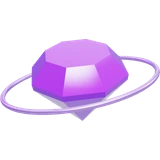
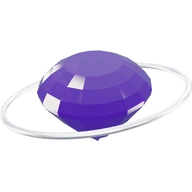
render photoreal crystal rarity gems and keep a fixed gap below each card

Changed region(s): [[0.0, 0.2188, 1.0, 0.75]]

diff --git a/scripts/rarity-gems/gems.html b/scripts/rarity-gems/gems.html
@@ -1,115 +1,149 @@
 <!doctype html>
 <meta charset="utf-8">
-<script type="importmap">{"imports":{"three":"/node_modules/three/build/three.module.js","three/addons/":"/node_modules/three/examples/jsm/"}}</script>
-<body style="margin:0;background:transparent">
+<script type="importmap">{"imports":{"three":"/node_modules/three/build/three.module.js"}}</script>
+<body style="margin:0;background:#000">
 <script type="module">
 import * as THREE from "three";
-import { RoomEnvironment } from "three/addons/environments/RoomEnvironment.js";
 
-const SIZE = 384;
-const renderer = new THREE.WebGLRenderer({ antialias: true, alpha: true, preserveDrawingBuffer: true });
+const SIZE = 512;
+const renderer = new THREE.WebGLRenderer({ antialias: true, preserveDrawingBuffer: true });
 renderer.setSize(SIZE, SIZE);
 renderer.setPixelRatio(1);
 renderer.toneMapping = THREE.ACESFilmicToneMapping;
-renderer.toneMappingExposure = 1.15;
+renderer.outputColorSpace = THREE.SRGBColorSpace;
 document.body.appendChild(renderer.domElement);
 
+/** Estúdio de joalheria: caixas de luz brancas e faixas coloridas num fundo escuro, para reflexos nítidos nas facetas. */
+function studio() {
+  const scene = new THREE.Scene();
+  scene.background = new THREE.Color(0x05070a);
+  let seed = 7;
+  const rand = () => ((seed = (seed * 16807) % 2147483647) / 2147483647);
+  // Domo com degradê suave (para o corpo da pedra não ficar chapado) e dezenas de faixas de luz finas e fortes (os brilhos das facetas).
+  const dome = new THREE.Mesh(new THREE.SphereGeometry(30, 48, 32), new THREE.ShaderMaterial({
+    side: THREE.BackSide, toneMapped: false,
+    vertexShader: "varying vec3 p; void main(){ p = normalize(position); gl_Position = projectionMatrix*modelViewMatrix*vec4(position,1.0); }",
+    fragmentShader: "varying vec3 p; void main(){ float t = p.y*0.5+0.5; vec3 c = mix(vec3(0.02,0.03,0.04), vec3(0.55,0.6,0.7), pow(t,3.0)); gl_FragColor = vec4(c,1.0); }",
+  }));
+  scene.add(dome);
+  for (let i = 0; i < 46; i++) {
+    const theta = rand() * Math.PI * 2;
+    const phi = Math.acos(1 - rand() * 1.6);
+    const r = 22;
+    const pos = [r * Math.sin(phi) * Math.cos(theta), r * Math.cos(phi), r * Math.sin(phi) * Math.sin(theta)];
+    const w = 0.6 + rand() * 3.2;
+    const h = 2 + rand() * 9;
+    const warm = rand() > 0.55;
+    const k = 4 + rand() * 14;
+    const rgb = warm ? [k, k * 0.86, k * 0.62] : [k * 0.8, k * 0.92, k];
+    const mesh = new THREE.Mesh(new THREE.PlaneGeometry(w, h), new THREE.MeshBasicMaterial({ color: new THREE.Color(...rgb), side: THREE.DoubleSide, toneMapped: false }));
+    mesh.position.set(...pos);
+    mesh.lookAt(0, 0, 0);
+    mesh.rotateZ(rand() * Math.PI);
+    scene.add(mesh);
+  }
+  return scene;
+}
 const pmrem = new THREE.PMREMGenerator(renderer);
-const env = pmrem.fromScene(new RoomEnvironment(), 0.02).texture;
+const env = pmrem.fromScene(studio(), 0.01, 0.1, 100).texture;
 
-/** Lapidação brilhante: coroa com mesa, cintura fina e pavilhão, 8 facetas (LatheGeometry + flatShading). */
-function brilliantGeometry(segments = 8) {
+/** Lapidação brilhante: mesa, coroa em dois níveis, cintura fina e pavilhão em ponta. */
+function brilliantGeometry(segments) {
   const profile = [
     [0.0, -1.0],
-    [0.98, 0.1],
-    [1.0, 0.22],
-    [0.66, 0.62],
+    [0.34, -0.7],
+    [0.66, -0.34],
+    [0.98, 0.08],
+    [1.0, 0.18],
+    [0.9, 0.34],
+    [0.72, 0.5],
+    [0.5, 0.62],
     [0.0, 0.62],
   ].map(([x, y]) => new THREE.Vector2(x, y));
   return new THREE.LatheGeometry(profile, segments);
 }
 
+const goldMat = () => new THREE.MeshStandardMaterial({ color: 0xf3c969, metalness: 1, roughness: 0.18, envMap: env, envMapIntensity: 1.6 });
+
 const GEMS = {
-  // comum: pedra de aço lapidada, sem brilho exagerado
-  comum: { color: 0x5f7389, emissive: 0x0a1118, rough: 0.3, metal: 0.45, inner: false, ring: false, prongs: false, segments: 6, exposure: 0.85 },
-  // rara: safira azul com brilho próprio
-  rara: { color: 0x1458ff, emissive: 0x041a66, rough: 0.1, metal: 0.1, inner: true, ring: false, prongs: false, segments: 8, exposure: 0.85 },
-  // épica: ametista com anel orbital
-  epica: { color: 0x8a22ff, emissive: 0x2a0770, rough: 0.1, metal: 0.1, inner: true, ring: true, prongs: false, segments: 8, exposure: 0.85 },
-  // lendária: gema dourada engastada em garras, com anel e aura
-  lendaria: { color: 0xff9d00, emissive: 0x6a3000, rough: 0.1, metal: 0.2, inner: true, ring: true, prongs: true, segments: 8, exposure: 0.9 },
+  // comum: quartzo fumê, translúcido e sóbrio
+  comum: { tint: 0xe3d3bd, atten: 0xb89c7c, dist: 3.5, ior: 1.46, core: 0xa5886a, disp: 0.15, seg: 16, ring: null, prongs: false, exposure: 1.0 },
+  // rara: safira azul profunda
+  rara: { tint: 0x6f9bff, atten: 0x1f5bff, dist: 2.4, ior: 1.5, core: 0x1648d8, disp: 0.3, seg: 16, ring: null, prongs: false, exposure: 1.05 },
+  // épica: ametista com anel orbital de prata
+  epica: { tint: 0xd69bff, atten: 0xc030ff, dist: 2.6, ior: 1.5, core: 0xa52be0, disp: 0.35, seg: 16, ring: "silver", prongs: false, exposure: 1.1 },
+  // lendária: topázio imperial engastado em garras de ouro, com anel
+  lendaria: { tint: 0xffd86f, atten: 0xffb800, dist: 2.6, ior: 1.55, core: 0xe6a000, disp: 0.5, seg: 16, ring: "gold", prongs: true, exposure: 1.15 },
 };
 
-function build(kind) {
+function build(kind, mask) {
   const cfg = GEMS[kind];
   const scene = new THREE.Scene();
-  scene.environment = env;
+  scene.environment = mask ? null : env;
+  scene.background = mask ? new THREE.Color(0x000000) : new THREE.Color(0x8b9893);
   const group = new THREE.Group();
 
-  const outer = new THREE.Mesh(
-    brilliantGeometry(cfg.segments),
+  const gem = new THREE.Mesh(
+    brilliantGeometry(cfg.seg),
     new THREE.MeshPhysicalMaterial({
-      color: cfg.color, emissive: cfg.emissive, emissiveIntensity: 0.7, roughness: cfg.rough, metalness: cfg.metal,
-      clearcoat: 0.6, clearcoatRoughness: 0.08, envMapIntensity: 0.9, flatShading: true,
+      color: cfg.tint, metalness: 0, roughness: 0.02, transmission: 1, thickness: 1.4, ior: cfg.ior, dispersion: cfg.disp,
+      attenuationColor: new THREE.Color(cfg.atten), attenuationDistance: cfg.dist, specularIntensity: 1, envMap: env, envMapIntensity: 1.5,
+      clearcoat: 0.35, clearcoatRoughness: 0.02, flatShading: true, side: THREE.DoubleSide,
     }),
   );
-  group.add(outer);
+  group.add(gem);
 
-  if (cfg.inner) {
-    const core = new THREE.Mesh(
-      brilliantGeometry(cfg.segments),
-      new THREE.MeshStandardMaterial({ color: 0xffffff, emissive: cfg.color, emissiveIntensity: 1.1, roughness: 0.2, metalness: 0, flatShading: true, transparent: true, opacity: 0.28 }),
-    );
-    core.scale.set(0.58, 0.58, 0.58);
-    core.rotation.y = Math.PI / cfg.segments;
-    group.add(core);
-  }
+  // Corpo da cor da pedra: uma lapidação menor por dentro que acende as facetas (o que dá a profundidade de um cristal de verdade).
+  const core = new THREE.Mesh(
+    brilliantGeometry(cfg.seg),
+    new THREE.MeshStandardMaterial({ color: cfg.core, emissive: cfg.core, emissiveIntensity: 0.9, roughness: 0.3, flatShading: true, transparent: true, opacity: 0.55 }),
+  );
+  core.scale.set(0.62, 0.62, 0.62);
+  core.rotation.y = Math.PI / cfg.seg;
+  group.add(core);
 
-  const goldMat = new THREE.MeshStandardMaterial({ color: 0xe9c46a, metalness: 1, roughness: 0.22, envMapIntensity: 2.4 });
   if (cfg.ring) {
-    const ring = new THREE.Mesh(new THREE.TorusGeometry(1.55, 0.045, 12, 96), kind === "lendaria" ? goldMat : new THREE.MeshStandardMaterial({ color: 0xc9a8ff, metalness: 1, roughness: 0.25, envMapIntensity: 2.4 }));
-    ring.rotation.x = Math.PI / 2.35;
-    ring.rotation.z = 0.25;
+    const metal = cfg.ring === "gold" ? goldMat() : new THREE.MeshStandardMaterial({ color: 0xdfe3ee, metalness: 1, roughness: 0.16, envMap: env, envMapIntensity: 1.8 });
+    const ring = new THREE.Mesh(new THREE.TorusGeometry(1.62, 0.05, 16, 120), metal);
+    ring.rotation.x = Math.PI / 2.3;
+    ring.rotation.z = 0.28;
     group.add(ring);
   }
   if (cfg.prongs) {
+    const metal = goldMat();
     for (let i = 0; i < 4; i++) {
       const a = (i / 4) * Math.PI * 2 + Math.PI / 4;
-      const prong = new THREE.Mesh(new THREE.ConeGeometry(0.15, 0.7, 12), goldMat);
-      prong.position.set(Math.cos(a) * 1.0, 0.22, Math.sin(a) * 1.0);
-      prong.rotation.z = -Math.cos(a) * 0.35;
-      prong.rotation.x = Math.sin(a) * 0.35;
+      const prong = new THREE.Mesh(new THREE.ConeGeometry(0.15, 0.72, 16), metal);
+      prong.position.set(Math.cos(a) * 1.02, 0.2, Math.sin(a) * 1.02);
+      prong.rotation.z = -Math.cos(a) * 0.3;
+      prong.rotation.x = Math.sin(a) * 0.3;
       group.add(prong);
     }
-    const band = new THREE.Mesh(new THREE.TorusGeometry(1.02, 0.07, 10, 64), goldMat);
+    const band = new THREE.Mesh(new THREE.TorusGeometry(1.04, 0.08, 14, 80), metal);
     band.rotation.x = Math.PI / 2;
-    band.position.y = 0.16;
+    band.position.y = 0.15;
     group.add(band);
   }
 
-  group.rotation.set(0.42, 0.5, 0.08);
+  group.rotation.set(0.45, 0.55, 0.06);
   scene.add(group);
-
-  const key = new THREE.DirectionalLight(0xffffff, 1.9);
-  key.position.set(2.5, 3.5, 3);
-  const rim = new THREE.DirectionalLight(cfg.color, 1.6);
-  rim.position.set(-3, 1.5, -2.5);
-  scene.add(key, rim);
+  if (mask) scene.overrideMaterial = new THREE.MeshBasicMaterial({ color: 0xffffff });
   return scene;
 }
 
-const camera = new THREE.PerspectiveCamera(32, 1, 0.1, 50);
-camera.position.set(0, 0.35, 7.2);
+const camera = new THREE.PerspectiveCamera(30, 1, 0.1, 60);
+camera.position.set(0, 0.35, 8);
 camera.lookAt(0, 0, 0);
 
 window.renderAll = () => {
   const out = {};
   for (const kind of Object.keys(GEMS)) {
     renderer.toneMappingExposure = GEMS[kind].exposure;
-    renderer.setClearColor(0x000000, 0);
-    renderer.clear();
-    renderer.render(build(kind), camera);
-    out[kind] = renderer.domElement.toDataURL("image/png");
+    renderer.render(build(kind, false), camera);
+    const color = renderer.domElement.toDataURL("image/png");
+    renderer.toneMappingExposure = 1;
+    renderer.render(build(kind, true), camera);
+    out[kind] = { color, mask: renderer.domElement.toDataURL("image/png") };
   }
   return out;
 };

diff --git a/components/cancha-card.tsx b/components/cancha-card.tsx
@@ -7,7 +7,7 @@ import { getCardStats } from "@/lib/card-stats";
 import { getInitials } from "@/lib/get-initials";
 import type { CardThemeKey } from "@/lib/card-themes";
 import { AWARD_LABELS, awardDesignKind, type AwardDesignKind, type AwardKind } from "@/types/award";
-import { getSkinRarity, PACK_RARITY_NAMES, type PackRarity } from "@/lib/packs";
+import { getSkinRarity, PACK_RARITY_NAMES, SKIN_BOTTOM_OVERHANG, type PackRarity } from "@/lib/packs";
 import type { CardSkinKey } from "@/types/card-skin";
 import type { Player } from "@/types/player";
 
@@ -868,7 +868,7 @@ function FloaterPieces({ items, layer }: { items: readonly Floater[]; layer: "ba
  * (aço, safira, ametista com anel e âmbar em garras de ouro) saem do `scripts/rarity-gems/render.mjs` (three.js, renderizadas
  * uma vez e guardadas em `public/rarity/`): na tela é só uma imagem, sem WebGL.
  */
-function RarityGem({ rarity }: { rarity: PackRarity }) {
+function RarityGem({ rarity, skin }: { rarity: PackRarity; skin: string }) {
   return (
     // eslint-disable-next-line @next/next/no-img-element -- ícone minúsculo e estático (public/rarity), sem o otimizador do Next
     <img
@@ -877,7 +877,8 @@ function RarityGem({ rarity }: { rarity: PackRarity }) {
       src={`/rarity/${rarity}.webp`}
       width={160}
       height={160}
-      className="pointer-events-none absolute top-full left-1/2 z-[9] mt-[1cqw] aspect-square w-[max(16px,15cqw)] -translate-x-1/2 select-none"
+      style={{ marginTop: `${(SKIN_BOTTOM_OVERHANG[skin] ?? 0) + 2.5}cqw` }}
+      className="pointer-events-none absolute top-full left-1/2 z-[9] aspect-square w-[max(20px,22cqw)] -translate-x-1/2 select-none"
     />
   );
 }
@@ -1056,7 +1057,7 @@ export function CanchaCard({ player, award, className, photoSizes, photoFrame = 
             : cn(METAL_WINDOW, "shadow-[inset_0_0_0_0.5cqw_var(--cc-m3),inset_0_0_0_0.9cqw_rgb(0_0_0/0.35)]"),
         )}
       />
-      {rarity && <RarityGem rarity={rarity} />}
+      {rarity && player.cardSkin && <RarityGem rarity={rarity} skin={player.cardSkin} />}
     </article>
   );
 

diff --git a/lib/packs.ts b/lib/packs.ts
@@ -47,6 +47,24 @@ export const SKIN_RARITIES: Readonly<Record<string, PackRarity>> = {
   destino: "lendaria",
 };
 
+/**
+ * Quanto a arte de cada skin passa da borda de baixo da carta (em `cqw`, medido por pixel na tela: moldura, folhas, brilho do neon),
+ * para a gema de raridade ficar sempre a mesma distância da carta e nunca escondida embaixo da arte. Skin nova: medir de novo.
+ */
+export const SKIN_BOTTOM_OVERHANG: Readonly<Record<string, number>> = {
+  esmeralda: 4.8,
+  safira: 4.5,
+  ametista: 3.3,
+  rubi: 9.5,
+  icone: 9.5,
+  lobisomem: 8.6,
+  vampiro: 8,
+  nuvem: 6.3,
+  relampago: 6.3,
+  lenda: 10.4,
+  destino: 2.7,
+};
+
 export function getSkinRarity(skin: string | null | undefined): PackRarity | null {
   return skin ? (SKIN_RARITIES[skin] ?? null) : null;
 }
